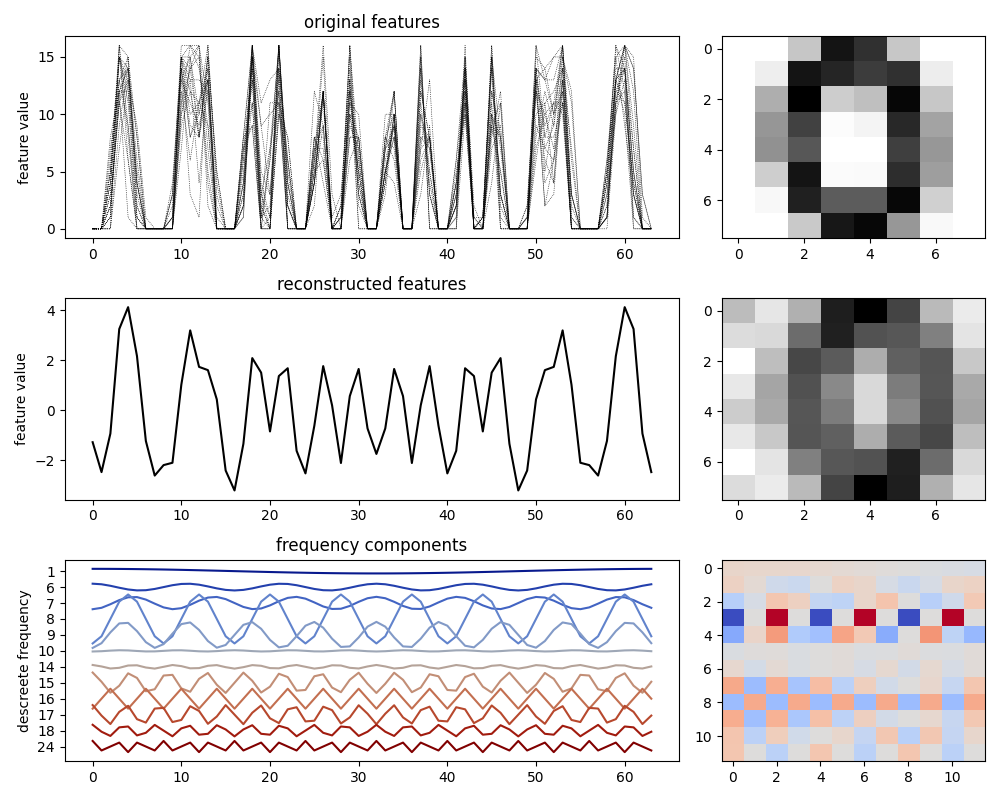
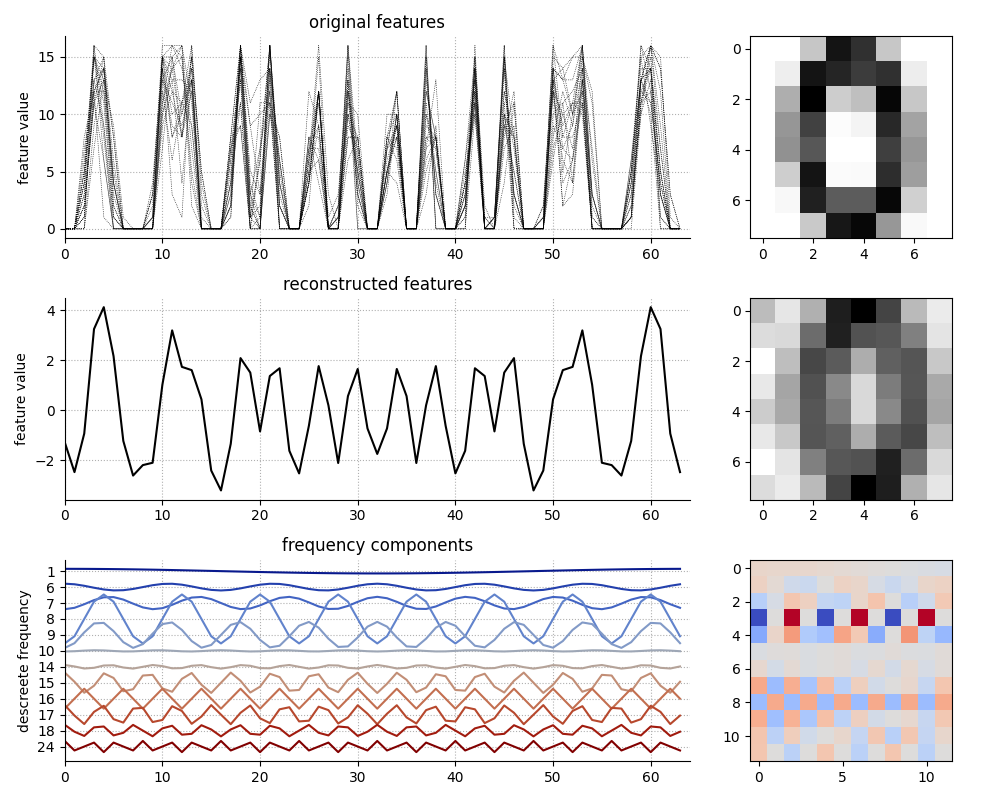
.

diff --git a/digits_vis_single.py b/digits_vis_single.py
@@ -149,10 +149,15 @@ ax[2,0].set_yticks(y, ffm.arg_var)
 ax[2,0].set_title('frequency components')
 ax[2,0].set_ylabel('descreete frequency')
 
-ax[0,1].imshow(np.mean(X[:chunk_size],axis=0).reshape(8,8), aspect='auto', cmap='binary')
-ax[1,1].imshow(rec.reshape(8,8), aspect='auto', cmap='binary')
-ax[2,1].imshow(vs[0], aspect='auto', cmap='coolwarm')
+ax[0,1].imshow(np.mean(X[:chunk_size],axis=0).reshape(8,8), cmap='binary')
+ax[1,1].imshow(rec.reshape(8,8), cmap='binary')
+ax[2,1].imshow(vs[0], cmap='coolwarm')
 
+for aa in ax[:,0]:
+    aa.spines['top'].set_visible(False)
+    aa.spines['right'].set_visible(False)
+    aa.grid(ls=':')
+    aa.set_xlim(0,64)
 
 plt.tight_layout()
 plt.savefig('foo.png')
